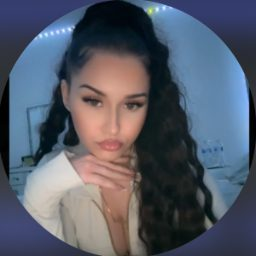
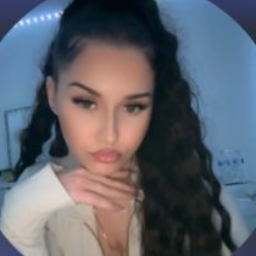
de

diff --git a/deploy/index.html b/deploy/index.html
@@ -401,9 +401,12 @@
   }
   .t-avatar {
     width: 72px; height: 72px; border-radius: 50%; flex: none;
-    object-fit: cover; object-position: center 22%; background: var(--teal-tint);
-    border: 2px solid var(--card);
-    box-shadow: 0 0 0 2px var(--teal), 0 6px 16px rgba(42,38,33,.18);
+    object-fit: cover; object-position: center 22%;
+    border: 3px solid transparent;
+    background:
+      linear-gradient(var(--card), var(--card)) padding-box,
+      conic-gradient(from 0deg, #0B7E77, #34D8CC, #5FE6DC, #12B7AC, #0B7E77) border-box;
+    box-shadow: 0 0 12px 1px rgba(52,216,204,.55), 0 6px 16px rgba(42,38,33,.18);
     transition: transform .2s ease;
   }
   .t-avatar:hover { transform: scale(1.05); }
